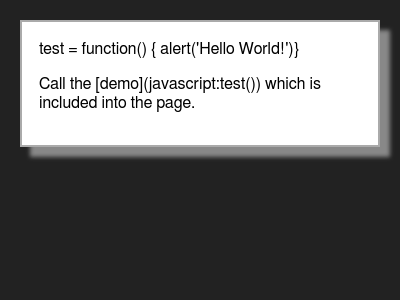
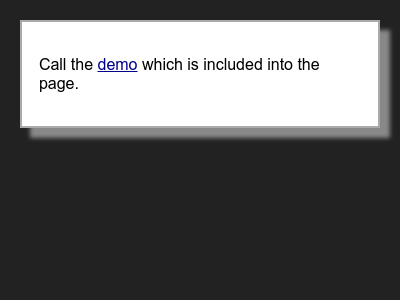
Add support for javascript and stylesheets through execute plugin.

Changed region(s): [[0.09, 0.12, 0.81, 0.39], [0.03, 0.42, 0.99, 0.54]]

diff --git a/src/doc/style-sheet.html b/src/doc/style-sheet.html
@@ -252,9 +252,8 @@ abbr, acronym {
 .hide {display: none;}
 .spacing {padding: 10px;}
 
-</style>  </head>
-  <body>#box {padding: 3px; border: solid black 1px; background: #eee;} strong {color: red;}
-<p>This document uses <strong>style sheets</strong> to make look bold text be red and let some
+#box {padding: 3px; border: solid black 1px; background: #eee;} strong {color: red;}</style>  </head>
+  <body><p>This document uses <strong>style sheets</strong> to make look bold text be red and let some
 look like <strong id="box">buttons</strong> using direct style for setting.</p>
 </body>
 </html>

diff --git a/src/doc/js.html b/src/doc/js.html
@@ -253,7 +253,8 @@ abbr, acronym {
 .spacing {padding: 10px;}
 
 </style>  </head>
-  <body>test = function() { alert('Hello World!')}
-<p>Call the [demo](javascript:test()) which is included into the page.</p>
+  <body><script type="text/javascript"><!--
+test = function() { alert('Hello World!')}
+//--></script><p>Call the <a href="#" onclick="test()">demo</a> which is included into the page.</p>
 </body>
 </html>

diff --git a/README.md b/README.md
@@ -1758,13 +1758,18 @@ let some look like **buttons** using direct style for setting."
 report.style '#box'
 ```
 
-You can put everything into the style rules which goes into cascading style sheets.
+You can put everything into the css rules which goes into cascading style sheets.
 
 In the markdown this goes into an execution tag:
 
 ``` markdown
 $$$ css
+#box {padding: 3px; border: solid black 1px; background: #eee;} strong {color: red;}
 $$$
+
+This document uses **style sheets** to make look bold text be red and let some
+look like **buttons** using direct style for setting.
+<!-- {#box} -->
 ```
 
 The example above will lokk like (rendered as HTML):
@@ -1778,7 +1783,8 @@ Like styles you may also add javascript functions to the document.
 ``` coffee
 report = new Report()
 report.js "test = function() { alert('Hello World!')}"
-report.p "Call the [demo](javascript:test()) which is included into the page."
+report.p "Call the [demo](#) which is included into the page."
+report.style 'onclick="test()"'
 ```
 
 If you use jQuery it will be added to your document automatically.
@@ -1787,12 +1793,16 @@ In the markdown this goes into an execution tag:
 
 ``` markdown
 $$$ js
+test = function() { alert('Hello World!')}
 $$$
+
+Call the [demo](#) which is included into the page.
+<!-- {onclick="test()"} -->
 ```
 
-The example above will lokk like (rendered as HTML):
+The example above will lokk like (click to get working HTML):
 
-![html](src/doc/js.png)
+[![html](src/doc/js.png)](http://htmlpreview.github.io/?https://github.com/alinex/node-report/blob/master/src/doc/js.html)
 
 
 

diff --git a/src/doc/js.md b/src/doc/js.md
@@ -3,4 +3,5 @@ $$$ js
 test = function() { alert('Hello World!')}
 $$$
 
-Call the [demo](javascript:test()) which is included into the page.
+Call the [demo](#) which is included into the page.
+<!-- {onclick="test()"} -->
